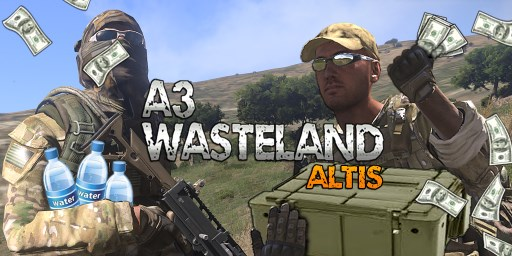
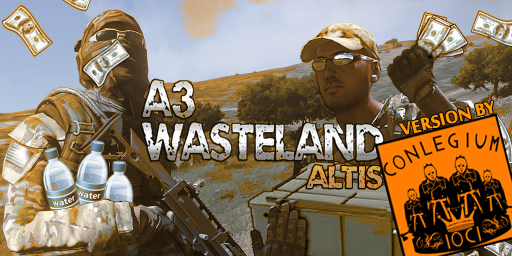
first step has done

diff --git a/README.md b/README.md
@@ -1,1 +1,10 @@
-# A3wConlegium
+# A3wConlegium (Arma 3 - Wasteland)
+
+A3wConlegium begins at this [state](https://github.com/A3Wasteland/ArmA3_Wasteland.Altis/tree/81c5a6946ceb71d64de2dbb566efeb6a2e957638).
+the project take a lot of time and maybe never get finished :D
+
+---
+
+Special thanks to: 
+AgentRev, [GoT] JoSchaap, MercyfulFate, [KoS] His_Shadow, [KoS] Bewilderbeest, Torndeco, [404] Del1te, [K-TTT] Razor and many other guys of the community.
+...without YOU this version of A3Wasteland never exists!
